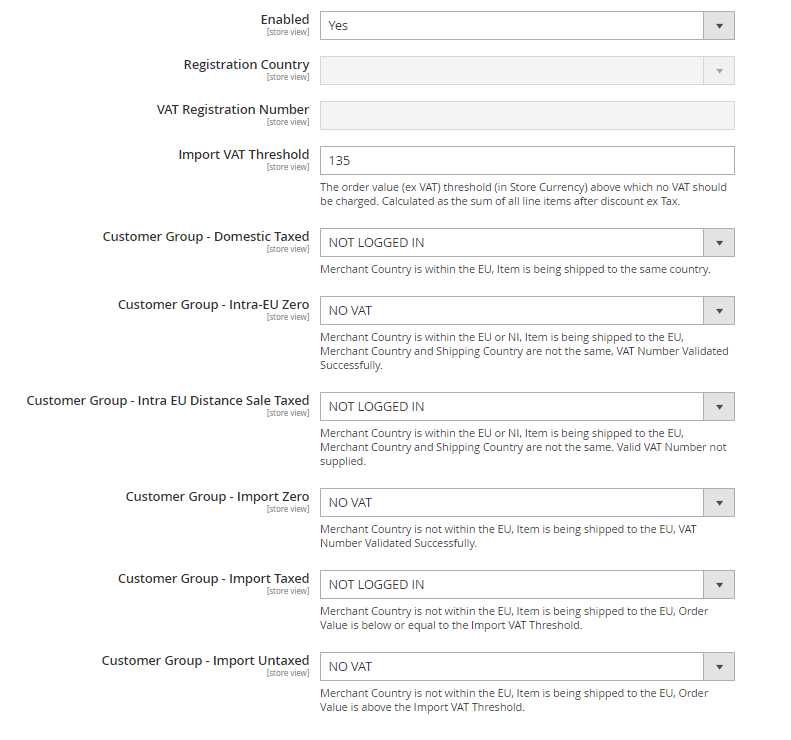
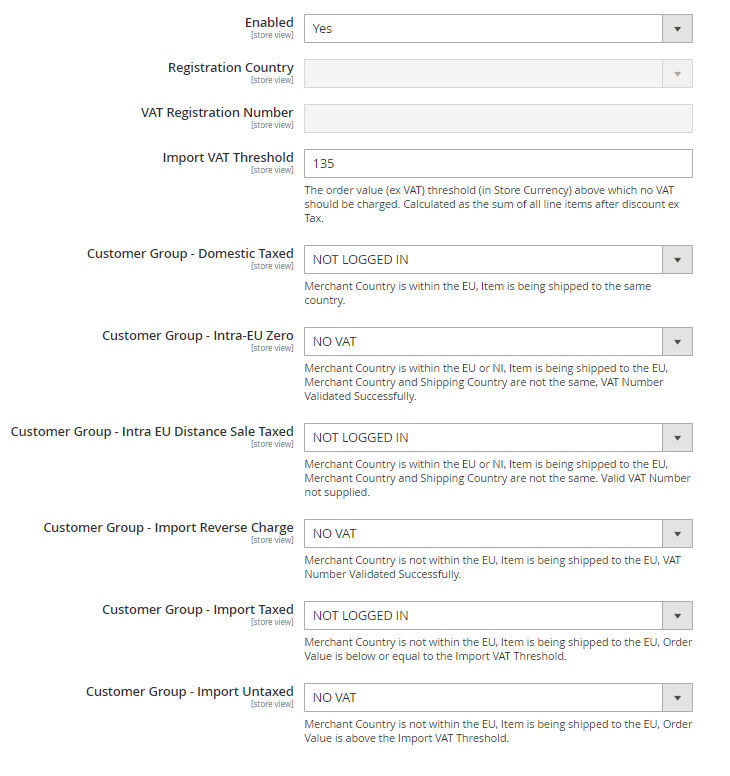
Renamed Import Zero Rule to Import Reverse Charge

Changed region(s): [[0.0301, 0.0, 0.9644, 0.9635], [0.9041, 0.0932, 0.9342, 0.1243]]

diff --git a/Test/Integration/AutoGroupTest.php b/Test/Integration/AutoGroupTest.php
@@ -170,7 +170,7 @@ class AutoGroupTest extends \PHPUnit\Framework\TestCase
             'uk_intraeu_distance_sale_taxed',
             'autocustomergroup/ukvat/intraeudistancesaletaxed'
         );
-        $groups[] = $this->createGroupAndAssign('uk_import_zero', 'autocustomergroup/ukvat/importzero');
+        $groups[] = $this->createGroupAndAssign('uk_import_reverse_charge', 'autocustomergroup/ukvat/importreversecharge');
         $groups[] = $this->createGroupAndAssign('uk_import_taxed', 'autocustomergroup/ukvat/importtaxed');
         $groups[] = $this->createGroupAndAssign('uk_import_untaxed', 'autocustomergroup/ukvat/importuntaxed');
 
@@ -180,7 +180,7 @@ class AutoGroupTest extends \PHPUnit\Framework\TestCase
             'eu_intraeu_distance_sale_taxed',
             'autocustomergroup/euvat/intraeudistancesaletaxed'
         );
-        $groups[] = $this->createGroupAndAssign('eu_import_zero', 'autocustomergroup/euvat/importzero');
+        $groups[] = $this->createGroupAndAssign('eu_import_reverse_charge', 'autocustomergroup/euvat/importreversecharge');
         $groups[] = $this->createGroupAndAssign('eu_import_taxed', 'autocustomergroup/euvat/importtaxed');
         $groups[] = $this->createGroupAndAssign('eu_import_untaxed', 'autocustomergroup/euvat/importuntaxed');
 
@@ -315,8 +315,8 @@ class AutoGroupTest extends \PHPUnit\Framework\TestCase
 
             [1, 'FR', '75001', 'GB', 'BT1 1AA', '', 'uk_intraeu_distance_sale_taxed', 0],
 
-            [1, 'FR','75001',  'GB', 'NE1 1AA', 'GB948561936944', 'uk_import_zero', 0], //VAT is valid
-            [10, 'FR', '75001', 'GB', 'NE1 1AA', 'GB948561936944', 'uk_import_zero', 0], //VAT is valid
+            [1, 'FR','75001',  'GB', 'NE1 1AA', 'GB948561936944', 'uk_import_reverse_charge', 0], //VAT is valid
+            [10, 'FR', '75001', 'GB', 'NE1 1AA', 'GB948561936944', 'uk_import_reverse_charge', 0], //VAT is valid
 
             //1 x 10ea = 10, Threshold is 40
             [1, 'FR', '75001', 'GB', 'NE1 1AA', '', 'uk_import_taxed', 0],
@@ -337,14 +337,14 @@ class AutoGroupTest extends \PHPUnit\Framework\TestCase
             [1, 'DE', '', 'IE', '', 'IE8256796H', 'eu_intraeu_distance_sale_taxed', 0], //VAT is invalid
             [1, 'GB', 'BT1 1AA', 'IE', '', '', 'eu_intraeu_distance_sale_taxed', 0],
 
-            [1, 'GB', '', 'IE', '', 'IE8256796U', 'eu_import_zero', 0], //VAT is valid
+            [1, 'GB', '', 'IE', '', 'IE8256796U', 'eu_import_reverse_charge', 0], //VAT is valid
             //20 x 10ea = 200,  * 50% = 100, Threshold is 90
-            [20, 'GB', '', 'IE', '', 'IE8256796U', 'eu_import_zero', 50], //VAT is valid
+            [20, 'GB', '', 'IE', '', 'IE8256796U', 'eu_import_reverse_charge', 50], //VAT is valid
             //18 x 10ea = 180,  * 50% = 90, Threshold is 90
-            [18, 'GB', '', 'IE', '', 'IE8256796U', 'eu_import_zero', 50], //VAT is valid
+            [18, 'GB', '', 'IE', '', 'IE8256796U', 'eu_import_reverse_charge', 50], //VAT is valid
             //16 x 10ea = 160,  * 50% = 80, Threshold is 90
-            [16, 'GB', '', 'IE', '','IE8256796U', 'eu_import_zero', 50], //VAT is valid
-            [1, 'BR', '', 'IE', '', 'IE8256796U', 'eu_import_zero', 0], //VAT is valid
+            [16, 'GB', '', 'IE', '','IE8256796U', 'eu_import_reverse_charge', 50], //VAT is valid
+            [1, 'BR', '', 'IE', '', 'IE8256796U', 'eu_import_reverse_charge', 0], //VAT is valid
 
             [1, 'GB', '', 'FR', '75001', '', 'eu_import_taxed', 0],
             [1, 'GB', '', 'IE', '', '123456', 'eu_import_taxed', 0], //VAT is invalid

diff --git a/Model/Validator/UkVat.php b/Model/Validator/UkVat.php
@@ -158,12 +158,12 @@ class UkVat extends AbstractValidator
         //Merchant Country is in the UK/IM
         //Item shipped to the UK/IM
         //VAT No is valid
-        //Therefore Import Zero
+        //Therefore Import Reverse Charge
         if (!$this->isCountryUKIM($merchantCountry) &&
             $this->isCountryUKIM($customerCountryCode) &&
             $this->isValid($vatValidationResult)) {
             return $this->scopeConfig->getValue(
-                "autocustomergroup/" . self::CODE . "/importzero",
+                "autocustomergroup/" . self::CODE . "/importreversecharge",
                 ScopeInterface::SCOPE_STORE,
                 $store
             );

diff --git a/Model/Validator/EuVat.php b/Model/Validator/EuVat.php
@@ -100,12 +100,12 @@ class EuVat extends AbstractValidator
         //Merchant Country is not in the EU
         //Item shipped to the EU
         //VAT No is valid.
-        //Therefore Import Zero
+        //Therefore Import Reverse Charge
         if (!$this->isCountryInEU($merchantCountry) &&
             $this->isCountryInEU($customerCountryCode) &&
             $this->isValid($vatValidationResult)) {
             return $this->scopeConfig->getValue(
-                "autocustomergroup/" . self::CODE . "/importzero",
+                "autocustomergroup/" . self::CODE . "/importreversecharge",
                 ScopeInterface::SCOPE_STORE,
                 $store
             );

diff --git a/README.md b/README.md
@@ -26,7 +26,7 @@
 <li><b>Customer Group - Domestic Taxed</b> - Merchant Country is within the UK/IM, Item is being shipped to the UK/IM.</li>
 <li><b>Customer Group - Intra-EU Zero</b> - Merchant Country is within the EU, Item is being shipped to NI, VAT Number Validated Successfully.</li>
 <li><b>Customer Group - Intra-EU Distance Sale Taxed</b> - Merchant Country is within the EU, Item is being shipped to NI, Valid VAT number is NOT supplied.</li>
-<li><b>Customer Group - Import Zero</b> - Merchant Country is not within the UK/IM, Item is being shipped to the UK/IM, VAT Number Validated Successfully.</li>
+<li><b>Customer Group - Import Reverse Charge</b> - Merchant Country is not within the UK/IM, Item is being shipped to the UK/IM, VAT Number Validated Successfully.</li>
 <li><b>Customer Group - Import Taxed</b> - Merchant Country is not within the UK/IM, Item is being shipped to the UKIM, Order Value is below or equal to Import VAT Threshold.</li>
 <li><b>Customer Group - Import Untaxed</b> - Merchant Country is not within the UK/Isle of Man, Item is being shipped to the UK/Isle of Man, Order Value is above the Import VAT Threshold.</li>
 </ul>
@@ -42,7 +42,7 @@
 <li><b>Customer Group - Domestic Taxed</b> - Merchant Country is within the EU, Item is being shipped to the same country.</li>
 <li><b>Customer Group - Intra-EU Zero</b> - Merchant Country is within the EU or NI, Item is being shipped to the EU, Merchant Country and Shipping Country are not the same, VAT Number Validated Successfully.</li>
 <li><b>Customer Group - Intra-EU Distance Sale Taxed</b> - Merchant Country is within the EU or NI, Item is being shipped to the EU, Merchant Country and Shipping Country are not the same. Valid VAT Number not supplied.</li>
-<li><b>Customer Group - Import Zero</b> - Merchant Country is not within the EU, Item is being shipped to the EU, VAT Number Validated Successfully.</li>
+<li><b>Customer Group - Import Reverse Charge</b> - Merchant Country is not within the EU, Item is being shipped to the EU, VAT Number Validated Successfully.</li>
 <li><b>Customer Group - Import Taxed</b> - Merchant Country is not within the EU, Item is being shipped to the EU, Order Value is below or equal to the Import VAT Threshold.</li>
 <li><b>Customer Group - Import Untaxed</b> - Merchant Country is not within the EU, Item is being shipped to the EU, Order Value is above the Import VAT Threshold.</li>
 
